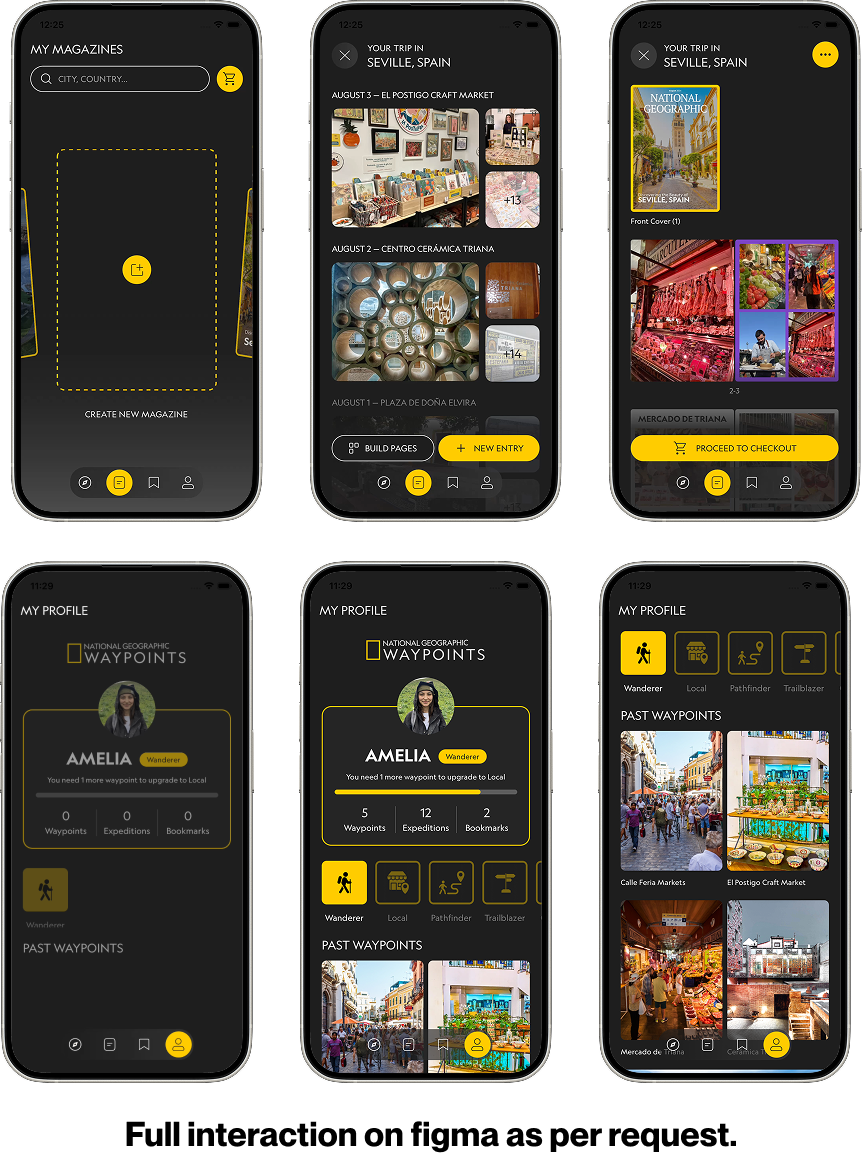
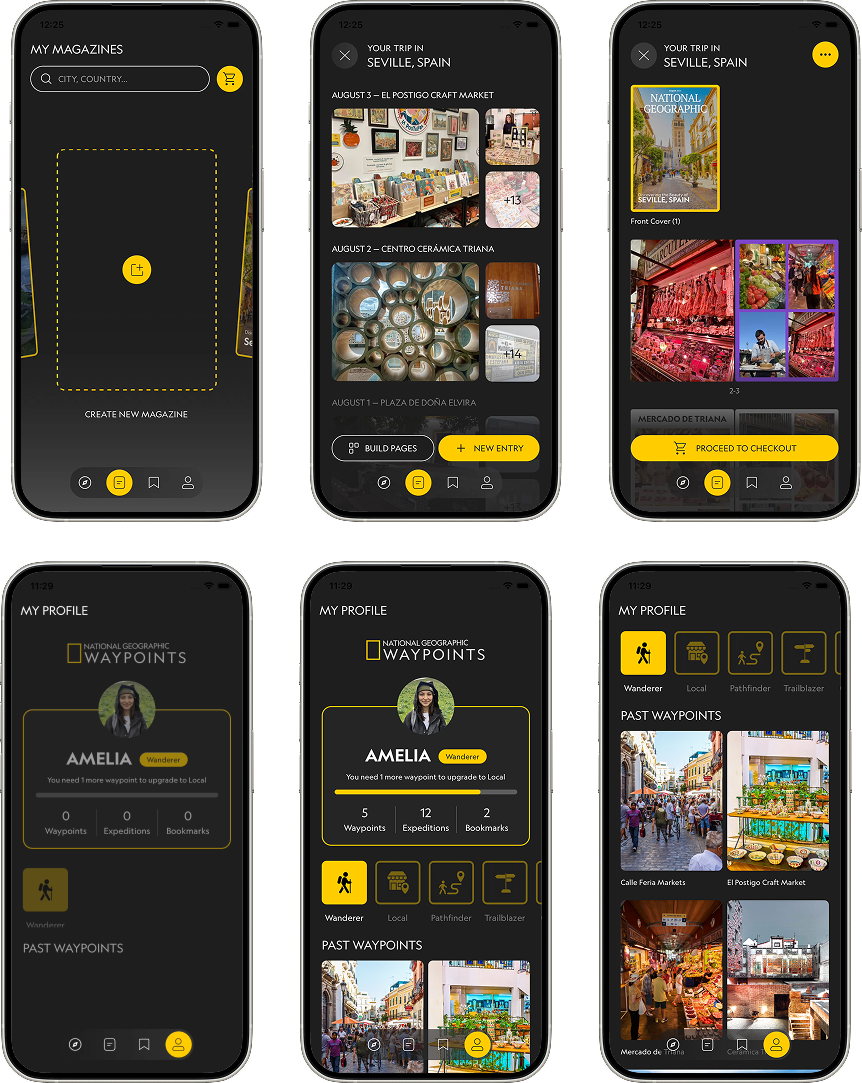
text

diff --git a/natgeo.html b/natgeo.html
@@ -347,8 +347,8 @@
             loading="lazy"
           />
         </figure>
-        <!-- <p class="cs-caption cs-caption--center reveal"> -->
-        <!--   <strong>Full interaction on Figma as per request.</strong> -->
+        <p class="cs-caption cs-caption--center reveal">
+          <strong>Full interaction on Figma as per request.</strong>
         </p>
       </section>
 
